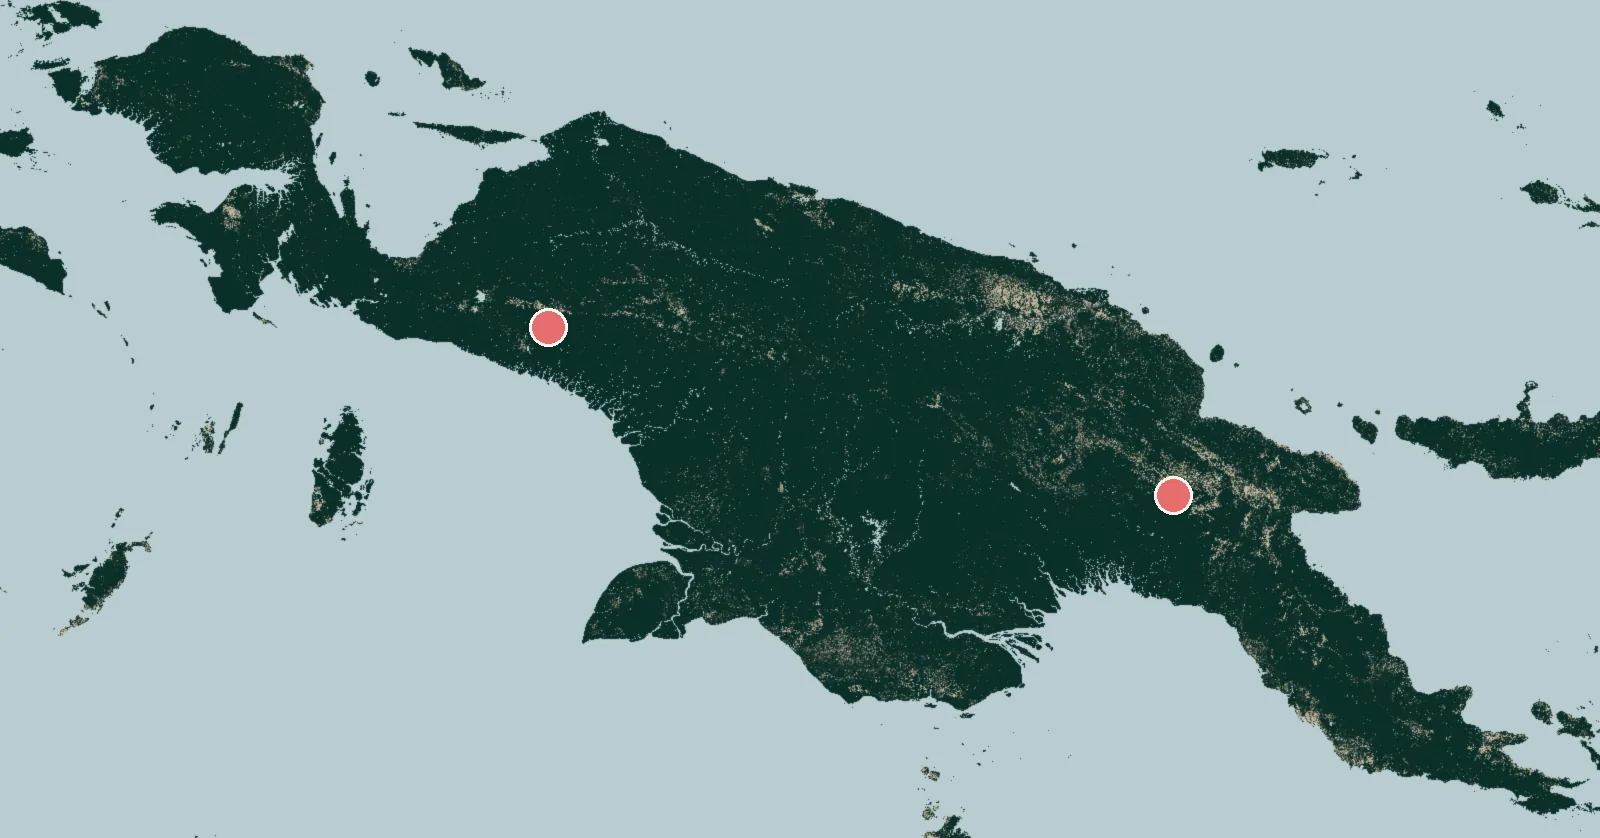
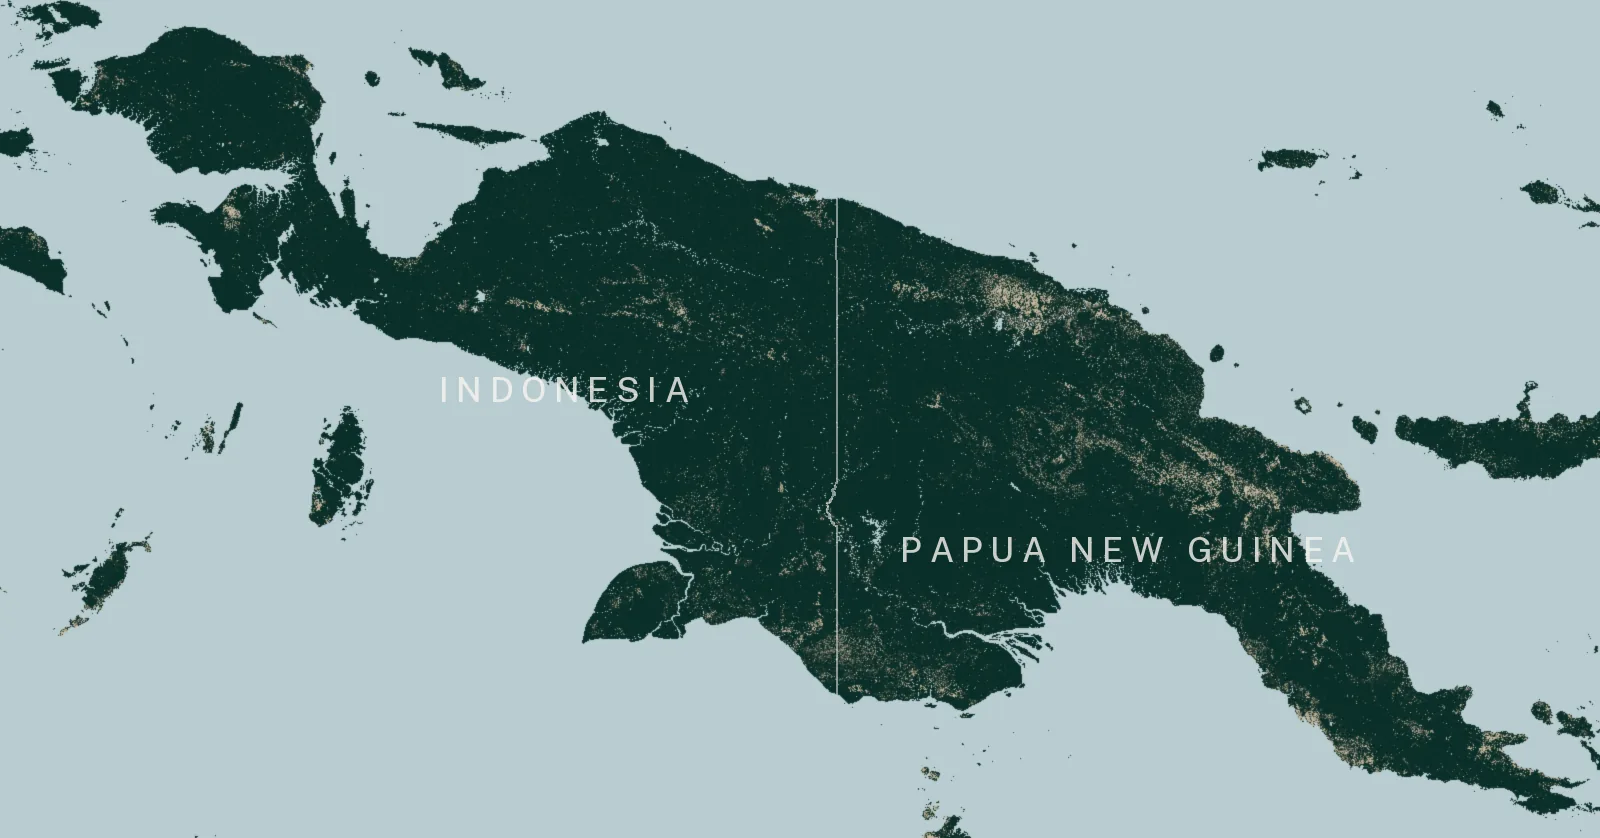
Name the countries on the two closing maps, and draw the one border
Both panels showed land with nothing to say whose it was. The names go on
in caps and letterspaced, on their own alpha layer so they sit under the
dots rather than competing with them — light over the forest, muted dark
over the water where there is no land to put them on.

New Guinea also gets the Indonesia / Papua New Guinea boundary from
Natural Earth, which is what the chapter's first sentence is about. With
the halves named and the line drawn, the two pink dots had nothing left
to say, so they are gone, and the caption with them.

The source KML now lives with the pipeline. The copy in ~/Downloads the
renderer had been reading was cleared out between runs; the one restored
here is identical to it — same ring, same 918 points, same bounds.

diff --git a/src/config.js b/src/config.js
@@ -622,10 +622,10 @@ export default {
       type: 'stage',
       stage: 'WatchArea',
       panel: '/panels/new_guinea_extent.webp',
-      panelAlt: 'Satellite-derived map of forest remaining in 2025 across New Guinea, with dots marking West Papua, Indonesia, and Papua New Guinea',
+      panelAlt: 'Satellite-derived map of forest remaining in 2025 across New Guinea, with the border between Indonesia and Papua New Guinea marked',
       scale: { n: 400, kmFrac: 0.1719, miFrac: 0.2767 },
       locator: [140.5, -5.5],
-      caption: 'Forest remaining in 2025 across New Guinea. The dots mark West Papua, in Indonesia, and Papua New Guinea.',
+      caption: 'Forest remaining in 2025 across New Guinea, divided between Indonesia and Papua New Guinea.',
       title: 'Isolated tribes in New Guinea',
       description: "<p>Mongabay could not include any lands in New Guinea, which includes the Indonesian half of West Papua and the country of Papua New Guinea, in its assessment due to lack of accurate data, mapping sources and the safety of isolated tribes.</p><p>In West Papua, there are currently between two and 10 \u201Ctruly uncontacted tribal groups\u201D in the rainforests, said Dorince Mehue, an AMAN campaigner for the Papua region.</p><p>Calculating the number of tribes living in voluntary isolation in West Papua is challenging due to geographic difficulties, restricted access for journalists and international humanitarian organizations and surrounding communities deliberately withholding information on isolated tribes to protect them from exploitation or external threats.</p><p>The primary forests they depend on face multiple threats. This threatens the survival and culture of uncontacted tribes in West Papua, according to Mehue.</p><p>\u201CThey face the expansion of extractive industries,\u201D she told Mongabay. \u201COf hundreds of thousands of hectares of customary forests turned into monopolistic oil palm plantations and agribusiness projects. Nickel mining activities on small islands such as Gag Island in Raja Ampat, as well as commercial logging, are clearing primary forests.\u201D</p><p>The ongoing armed conflict, security forces and armed civilian groups have forced thousands of residents of remote villages to flee into the forest, Mehue said.</p>",
     },
